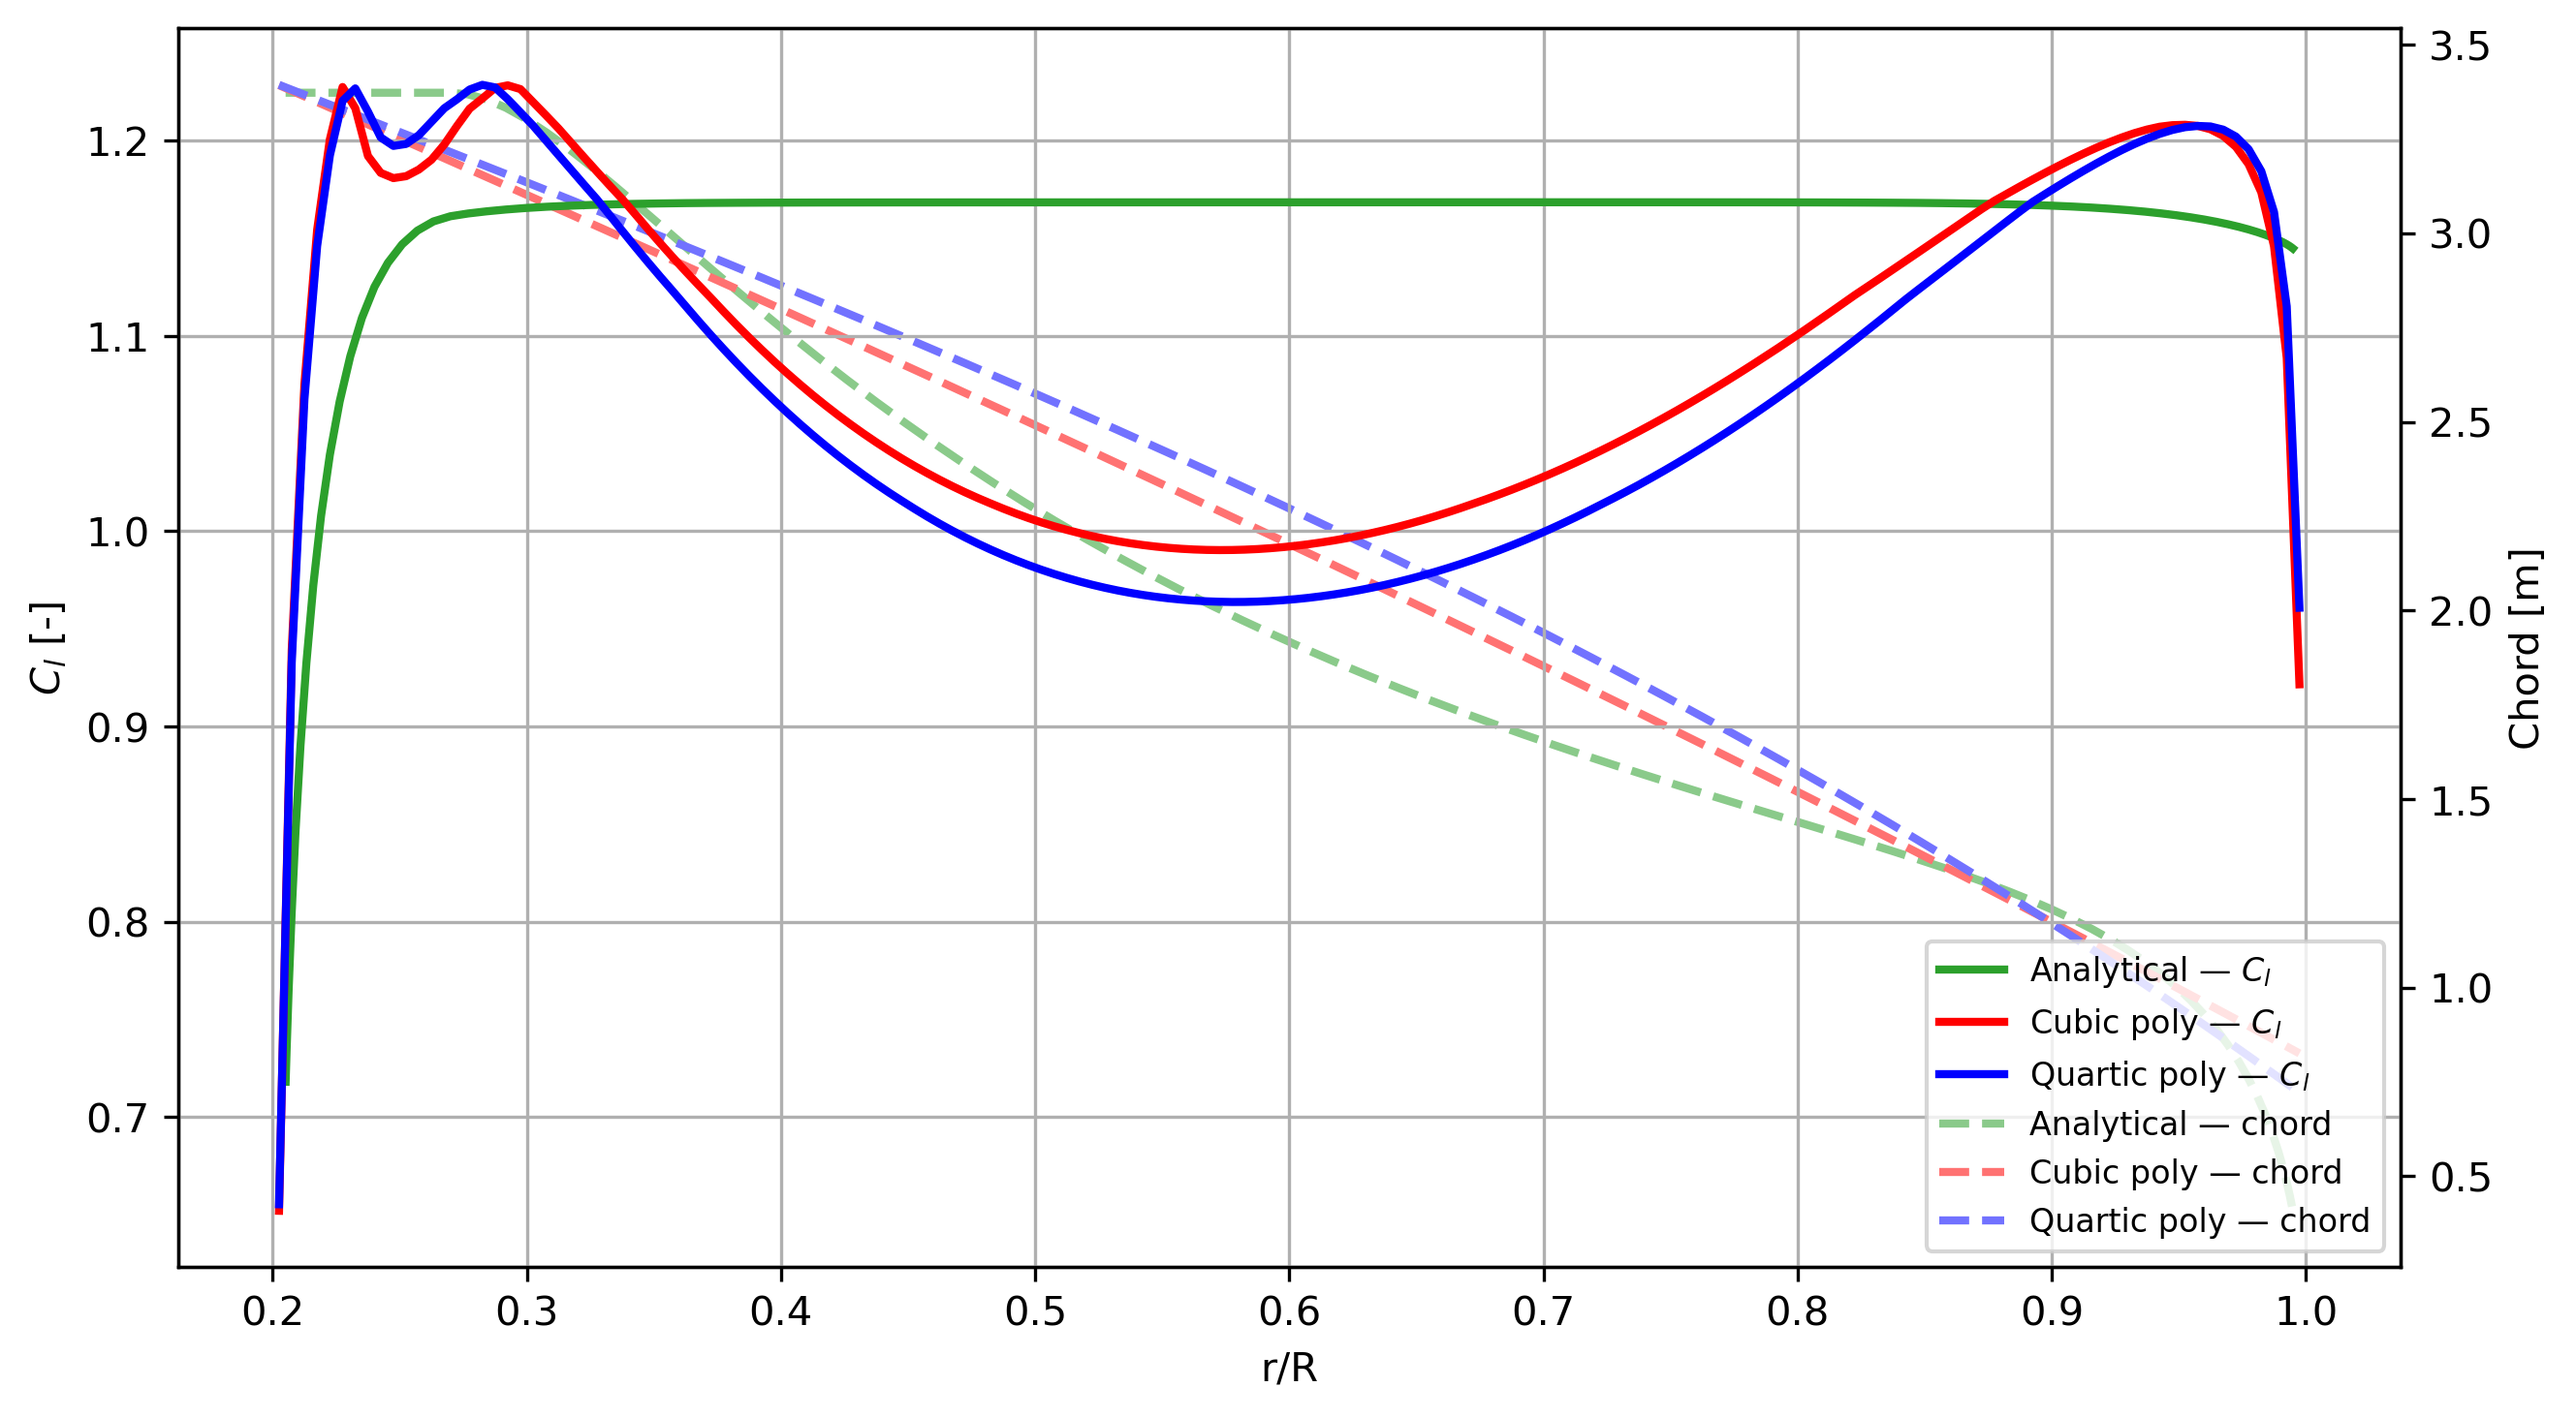
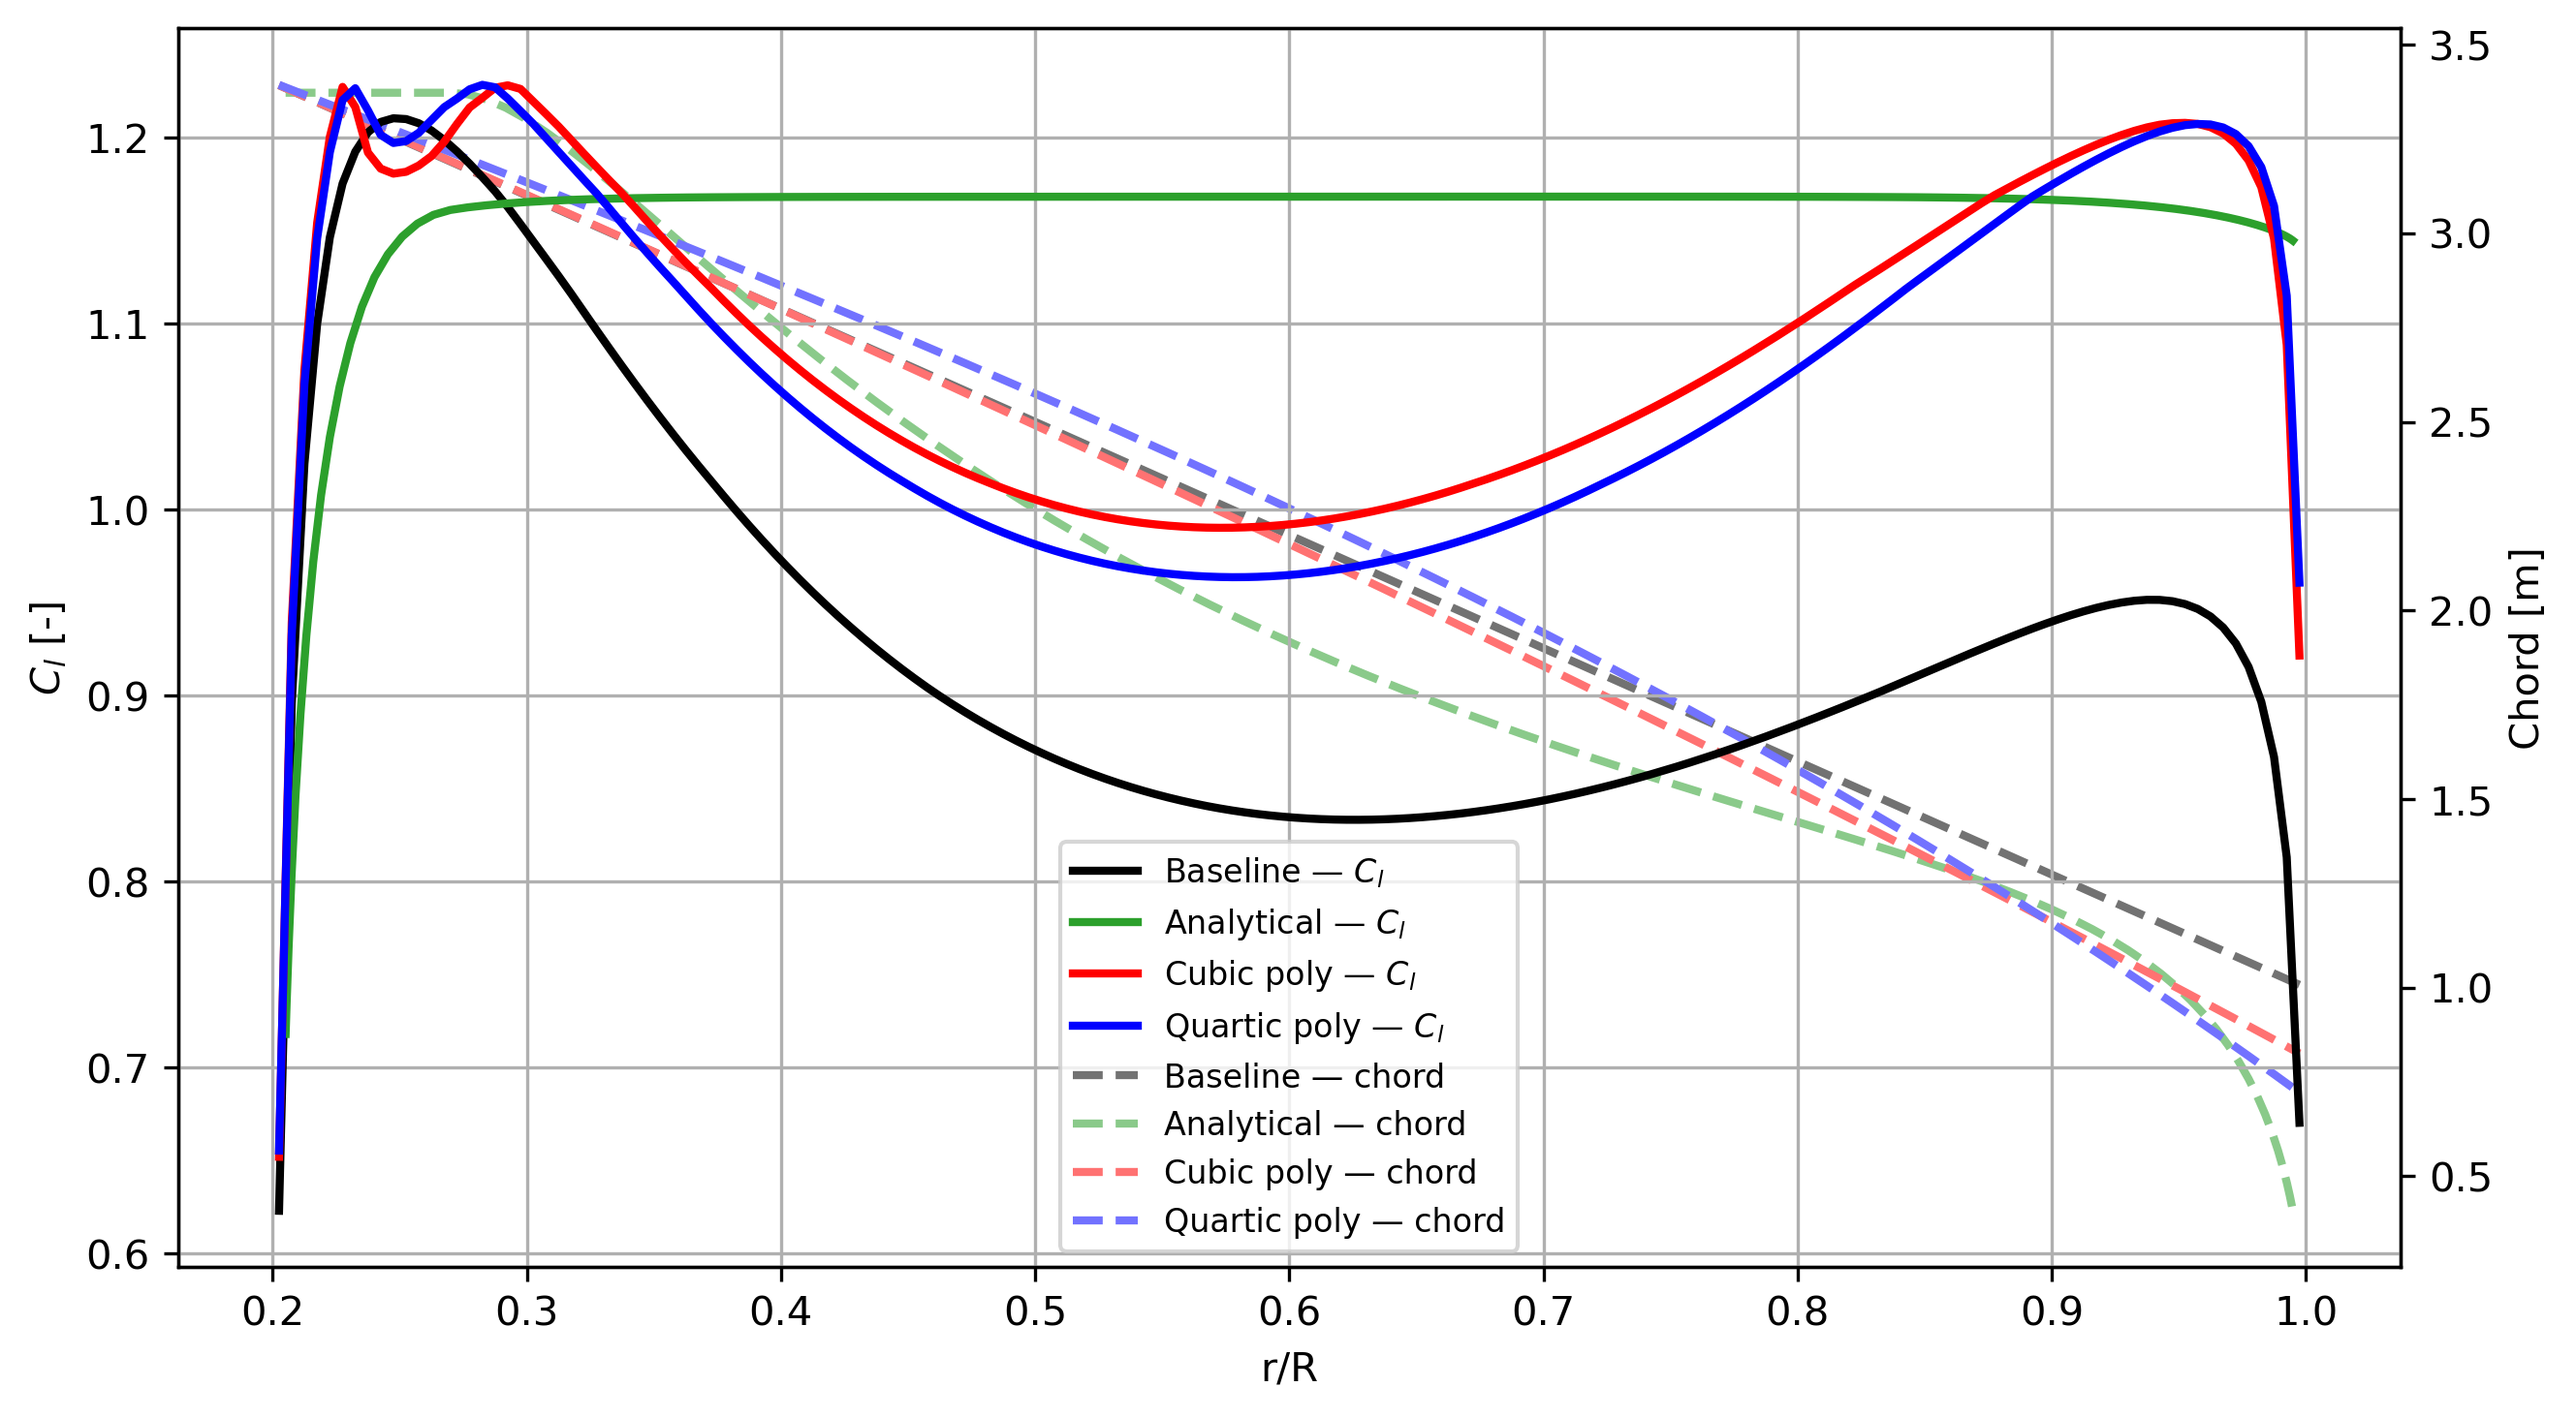
Final code

diff --git a/FINAL_BEM/BEM_FINAL.py b/FINAL_BEM/BEM_FINAL.py
@@ -1,10 +1,21 @@
 """
-assignment.py  —  AE4135 Rotor/Wake Aerodynamics, Assignment 1
+BEM_FINAL.py  —  AE4135 Rotor/Wake Aerodynamics, Assignment 1
+
+Authors: Douwe de Jong(5313899), Martijn van Leeuwen(5614422)
 ================================================================
 Self-contained script producing all required plots and saving
-results to full_bem_results.npz for use with plot_results.py.
+results to full_bem_results.npz for use with PLOTTING_BEM_FINAL.py.
 
-Run:  python assignment.py
+When running the optimization the computation takes quite long
+therefore all results from this file are already saved in:
+
+    1.bem_results.npz (includes BEM results)
+    2.opt_results.npz (includes optimized designs)
+
+These can then be plotted with PLOTTING_BEM_FINAL.py without 
+re-running the BEM or optimizations.
+    
+Run:  python BEM_FINAL.py
 """
 
 import os, sys, io
@@ -951,6 +962,7 @@ def _make_9a_axes(ax, r_mid, cl, chord, col, lbl):
 if PLOT_9:
     _opt_data=[]
     for lbl,r_arr,c_arr,res_arr in [
+            ("Baseline",    r_base,  c_base,  res_base),
             ("Analytical",  r_anal, c_anal,  res_anal),
             ("Cubic poly",  r_cubic,c_cubic, res_cubic),
             ("Quartic poly",r_qrt,  c_qrt,   res_qrt)]:
@@ -1239,3 +1251,87 @@ if SAVE_OPT_RESULTS:
     save_opt_results()
 else:
     print("SAVE_OPT_RESULTS=False — opt_results.npz not written.")
+
+
+
+
+#Added later 
+def plot_9a_baseline_pitch_sweep(
+    pitch_values,
+    tsr=8.0,
+    figsize=(9, 5)
+):
+    """
+    Create a Plot-9a-style figure for the baseline blade geometry at a fixed TSR,
+    but for multiple pitch values.
+
+    The plot shows:
+      - C_l on the left y-axis
+      - chord on the right y-axis
+
+    Parameters
+    ----------
+    pitch_values : list or array-like
+        Pitch values in degrees, e.g. [-4, -2, 0, 2]
+    tsr : float, optional
+        Tip-speed ratio at which to run the BEM evaluation.
+    figsize : tuple, optional
+        Matplotlib figure size.
+    """
+
+    fig, ax1 = plt.subplots(figsize=figsize)
+    ax2 = ax1.twinx()
+
+    for i, pitch_val in enumerate(pitch_values):
+        # Baseline geometry with modified pitch
+        bins = make_bins()
+        r_nodes = bins * Radius
+        c_nodes = 3.0 * (1.0 - bins) + 1.0
+        tw_nodes = -(14.0 * (1.0 - bins) + pitch_val)
+
+        # Evaluate rotor at requested TSR
+        CT_tmp, CP_tmp, res_tmp = evaluate_rotor(r_nodes, c_nodes, tw_nodes, tsr=tsr)
+
+        # Mid-span locations and local Cl
+        r_mid = res_tmp[:, 2]
+        cl_local = res_tmp[:, 8]
+
+        # Interpolate nodal chord onto annulus midpoints
+        chord_mid = np.interp(r_mid, r_nodes / Radius, c_nodes)
+
+        # Colors
+        col = _tsr_color(i, len(pitch_values))
+        col_chord = _lighten(col, 0.45)
+
+        # Plot Cl and chord
+        ax1.plot(
+            r_mid, cl_local,
+            color=col, lw=2,
+            label=rf"$\beta={pitch_val:.1f}^\circ$ — $C_l$"
+        )
+        ax2.plot(
+            r_mid, chord_mid,
+            color=col_chord, lw=2, ls="--",
+            label=rf"$\beta={pitch_val:.1f}^\circ$ — chord"
+        )
+
+        print(
+            f"Pitch = {pitch_val:+.2f} deg  |  "
+            f"TSR = {tsr:.2f}  |  "
+            f"CT = {CT_tmp:.5f}  |  "
+            f"CP = {CP_tmp:.5f}"
+        )
+
+    ax1.set_xlabel("r/R")
+    ax1.set_ylabel(r"$C_l$ [-]")
+    ax2.set_ylabel("Chord [m]")
+    ax1.grid(True)
+
+    h1, l1 = ax1.get_legend_handles_labels()
+    h2, l2 = ax2.get_legend_handles_labels()
+    ax1.legend(h1 + h2, l1 + l2, fontsize=8, loc="best")
+
+    fig.tight_layout()
+    plt.show()
+
+plot_9a_baseline_pitch_sweep(pitch_values=[-6, -4, -2, 0, 2], tsr=8.0)

diff --git a/FINAL_BEM/PLOTTING_BEM_FINAL.py b/FINAL_BEM/PLOTTING_BEM_FINAL.py
@@ -1,13 +1,15 @@
 """
-plot_results.py  —  Standalone plotting script
+PLOTTING_BEM_FINAL.py  —  Standalone plotting script
+
+Authors: Douwe de Jong(5313899), Martijn van Leeuwen(5614422)
 ================================================
-Loads full_bem_results.npz (produced by assignment.py) and
+Loads bem_results.npz and opt_results.npz (produced by BEM_FINAL.py) and
 reproduces all assignment plots without re-running any BEM.
 
 Usage
 -----
-    python plot_results.py                           # uses full_bem_results.npz in cwd
-    python plot_results.py path/to/results.npz       # explicit path
+    python PLOTTING_BEM_FINAL.py                           # uses bem_results.npz and opt_results.npz in cwd
+    python PLOTTING_BEM_FINAL.py path/to/bem_results.npz path/to/opt_results.npz  # explicit paths
 
 Plots saved to ./plotting_plots_assignment/
 """
@@ -45,9 +47,6 @@ PLOT_9    = True   # Cl and chord relation  (analytical optimum)
 PLOT_9_CMP = True  # NEW: chord + Cl comparison analytical vs quartic on one figure
 PLOT_10   = True   # Cl/Cd polar with operating points
 
-# =============================================================================
-# 1.  LOAD RESULTS
-# =============================================================================
 
 # =============================================================================
 # 1.  LOAD RESULTS — two separate npz files
@@ -56,13 +55,13 @@ PLOT_10   = True   # Cl/Cd polar with operating points
 # bem_results.npz   — BEM sweeps, tip correction, convergence, section-6 data
 # opt_results.npz   — baseline + all optimised designs (analytical, cubic, quartic)
 #
-# Both files are written next to assignment.py by default.
+# Both files are written next to BEM_FINAL.py by default.
 # You can override either path via command-line:
-#   python plot_results.py bem_results.npz opt_results.npz
+#   python PLOTTING_BEM_FINAL.py bem_results.npz opt_results.npz
 # Or override just the first:
-#   python plot_results.py path/to/bem_results.npz
+#   python PLOTTING_BEM_FINAL.py path/to/bem_results.npz
 #
-# If opt_results.npz is absent, all PLOT_8/9/10 plots are skipped gracefully.
+# If opt_results.npz is absent, all PLOT_8/9/10 plots are skipped.
 # =============================================================================
 
 _script_dir = os.path.dirname(os.path.abspath(__file__))
@@ -851,6 +850,7 @@ if PLOT_9:
     _opt_lbls = ["Analytical", "Cubic poly", "Quartic poly"]
     _opt_data  = []   # (lbl, r_mid, cl, chord)
     for lbl, r_arr, c_arr, res_arr in [
+            ("Baseline",     r_base,  c_base,  res_base),
             ("Analytical",   r_anal,  c_anal,  res_anal),
             ("Cubic poly",   r_cubic, c_cubic, res_cubic),
             ("Quartic poly", r_qrt,   c_qrt,   res_qrt)]:
@@ -919,7 +919,7 @@ if PLOT_9_CMP:
 #
 # For each plot type (10a polar, 10b glide ratio):
 #   • one combined figure showing all available designs together
-#   • one individual figure per optimised design (Analytical, Cubic, Quartic)
+#   • one individual figure per optimised design (Baseline, Analytical, Cubic, Quartic)
 #
 # Scatter points are colored by r/R via viridis.  Each design uses its
 # predefined color as the edge color and a unique marker shape.
@@ -933,7 +933,7 @@ if PLOT_10:
                           ("Quartic poly", res_qrt)]:
         if res_arr is not None and res_arr.shape[1] >= 10:
             _pol_all.append((lbl, res_arr))
-            if lbl != "Baseline":
+            if lbl != "Bas":
                 _pol_opt.append((lbl, res_arr))
 
     if _pol_all:
